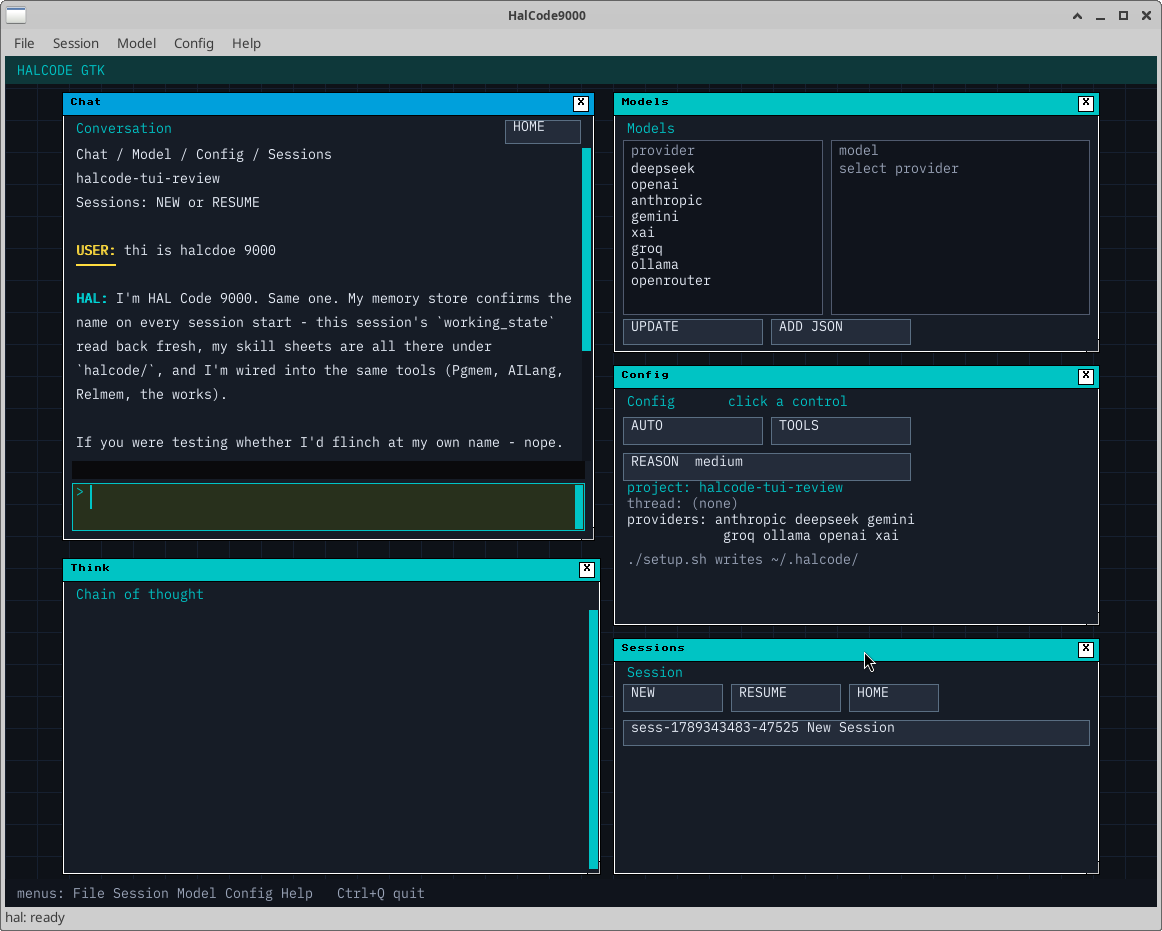
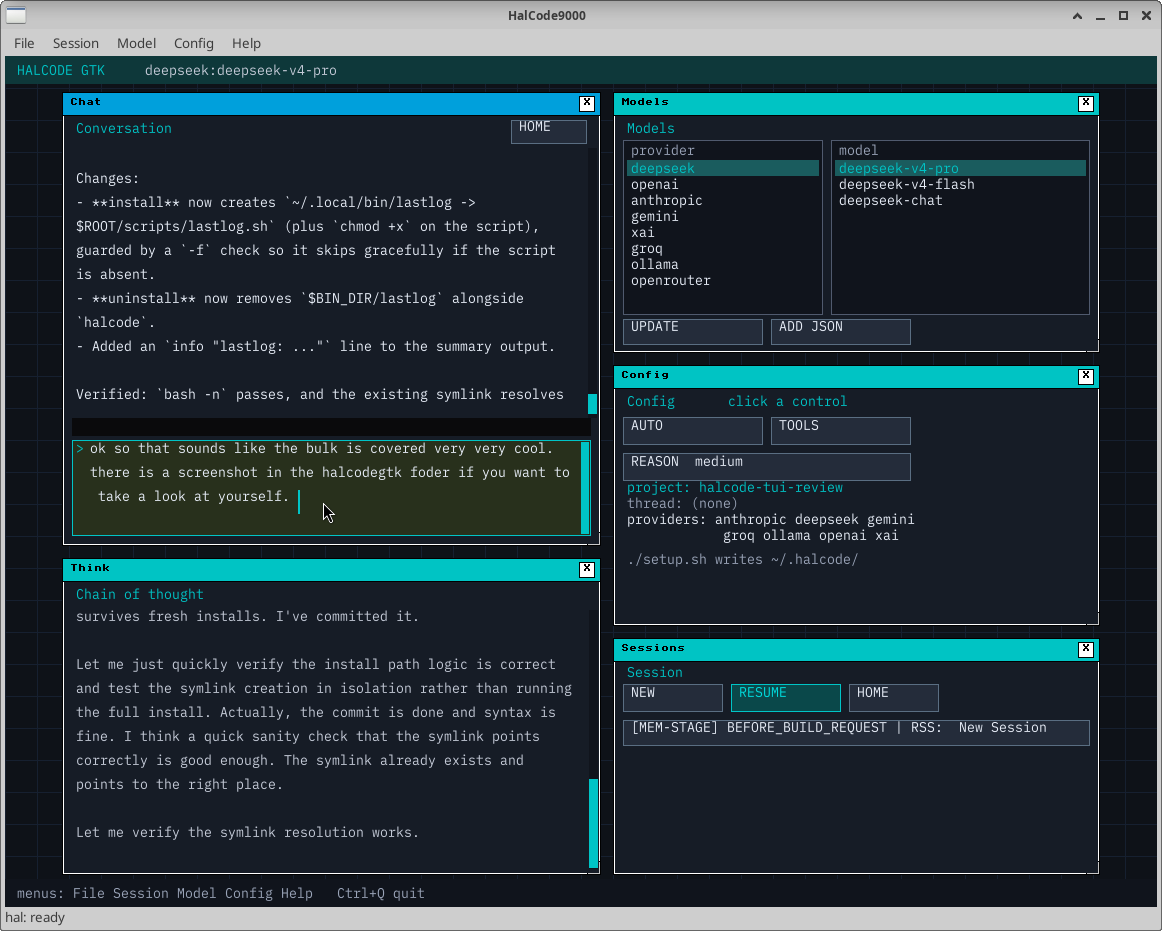
Docs: refresh screenshot and document build.sh/verify.sh/lastlog

diff --git a/README.md b/README.md
@@ -33,8 +33,8 @@ chmod +x install.sh
 ```
 
 That builds the agent, GTK host, and desk; registers **HalCode9000** in the
-Applications menu; links `~/.local/bin/halcode`; and runs `setup.sh` for
-API keys / pgmem.
+Applications menu; links `~/.local/bin/halcode` and `~/.local/bin/lastlog`;
+and runs `setup.sh` for API keys / pgmem.
 
 ```bash
 ./install.sh --skip-keys --skip-postgres --skip-olympus
@@ -51,6 +51,46 @@ halcode
 ```
 
 Does **not** touch leftover `HalCode9000.x --mcp` processes.
+
+## Build
+
+```bash
+./build.sh                          # agent + tools
+./build.sh --no-tools               # main binary only (fast iteration)
+./build.sh --self-update            # rebuild, swap binaries, restart the app
+./build.sh --self-update --dry-run  # print the stop/restart plan only
+```
+
+Compiles land in `/tmp` first and are copied to the project root only after
+every build succeeds. `--self-update` stops the running desk/shell and its
+`--host`/`--agent` children, swaps the binaries, and relaunches; long-lived
+`--mcp` servers are left alone.
+
+## Verify
+
+```bash
+./verify.sh                 # fast-compile both HalCode trees
+./verify.sh --grep SYMBOL   # grep both trees for SYMBOL
+./verify.sh SYMBOL          # grep both trees, then fast-compile both
+./verify.sh --full          # full build (tools + main) of both trees
+```
+
+`verify.sh` checks this tree and the canonical AILang source tree (resolved
+from `ailang.x` / `~/HalCode9000`); compiles use `--no-copy`, so nothing is
+installed.
+
+## Logs
+
+```bash
+lastlog           # path + tail the newest session log
+lastlog -p        # path only
+lastlog -f        # follow the newest log
+lastlog -n 200    # last 200 lines
+```
+
+`lastlog` (linked into `~/.local/bin` by the installer) prints the newest of
+`~/.halcode/logs/session_*.txt` (headless/TUI) or `~/.halcode/chat*.ndjson`
+(live GTK chat).
 
 ## Config
 
@@ -78,6 +118,8 @@ halcode
 | `cc_tools/` | tool workers |
 | `config/system_prompt.txt` | shipped default prompt |
 | `fonts/` | IBM Plex Mono VIF |
+| `verify.sh` | one-shot grep + build across both trees |
+| `scripts/lastlog.sh` | print/follow the newest session log |
 
 The TUI lives in a separate repo. This tree’s `UI.ailang` is a headless stub
 so the agent still compiles.
